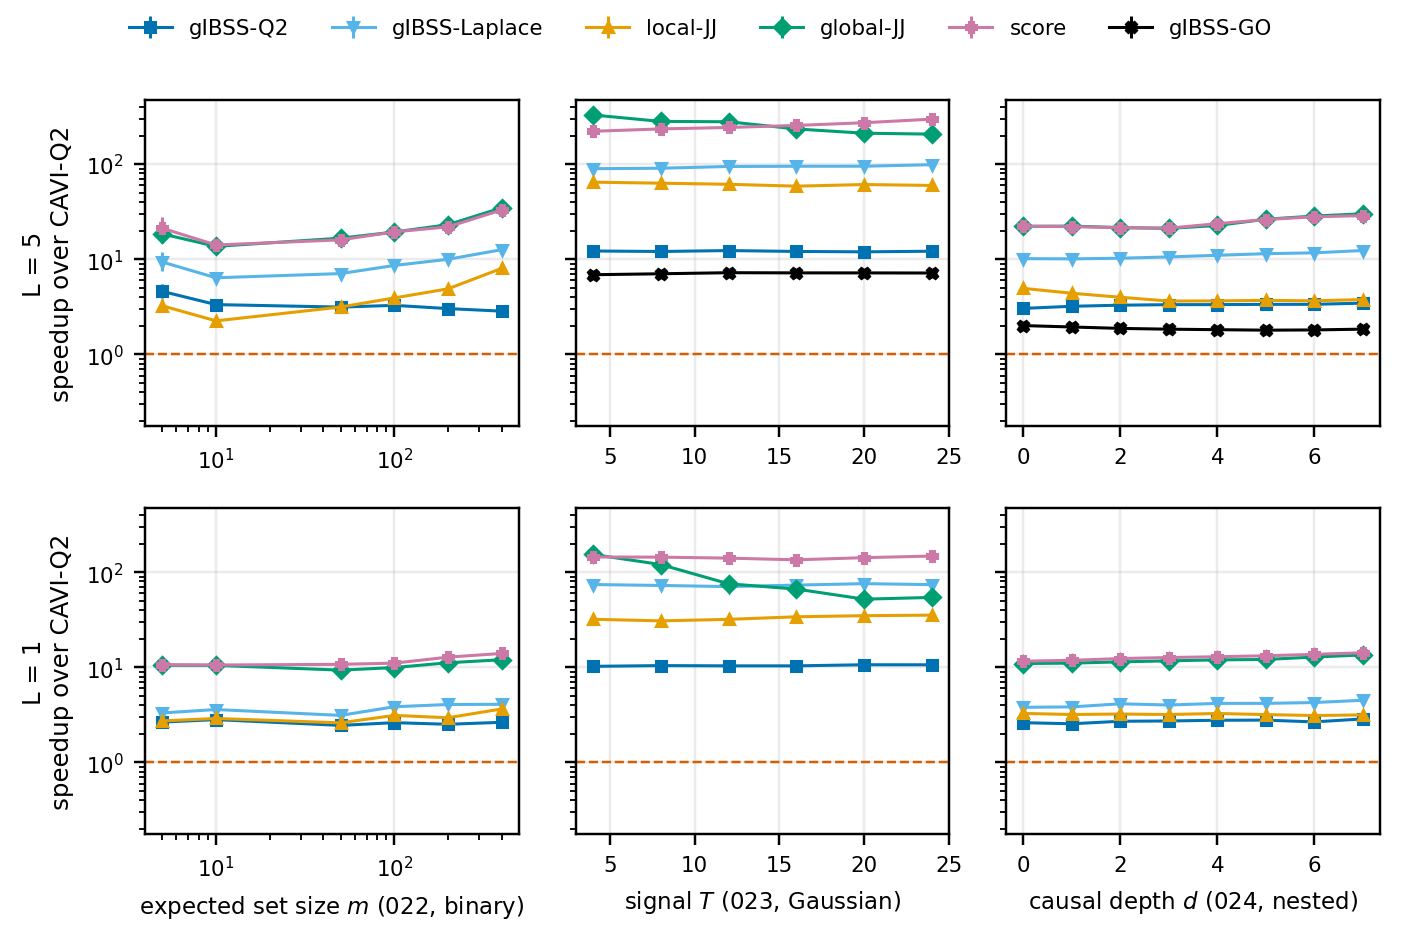
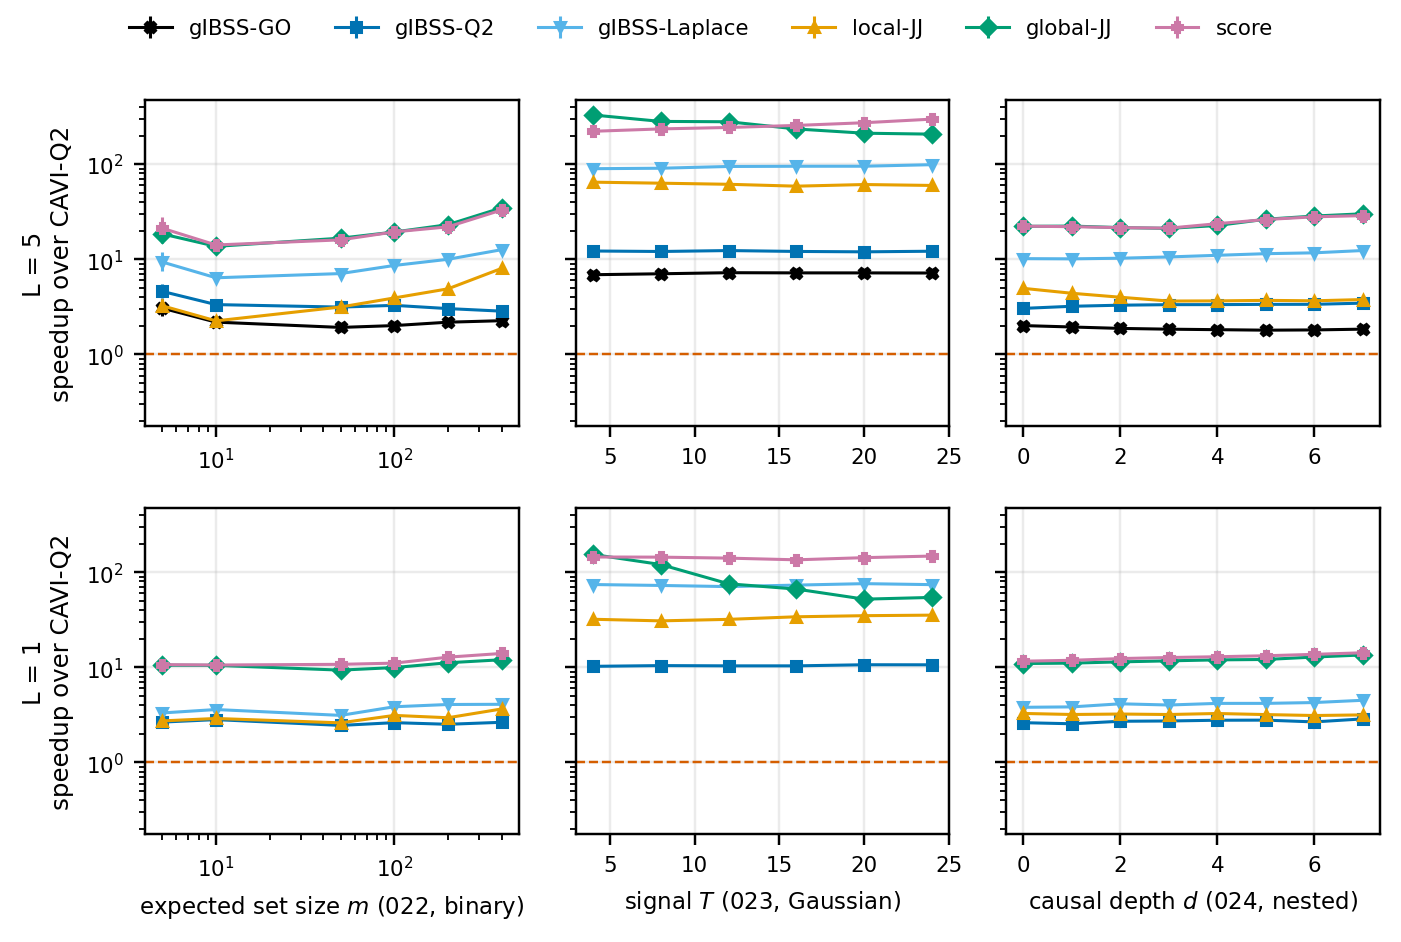
feat(twogroup): gIBSS-GO in the 022 runtime tables
runtime.load() reads 022 gIBSS-GO from the full grid in results/, restricted to the
022-laplace-timing batches (batch 0 of each cell, 30 batches x 10 reps), the same
replicates the other arms use. Every gIBSS-GO fit ran on Midway (gibss a3471c3), so these
timings come from the same machine as the -timing reruns. Fixes the ruff import lint in runtime.py.

diff --git a/twogroup_experiments/analysis/logistic_laplace_simulations/runtime.py b/twogroup_experiments/analysis/logistic_laplace_simulations/runtime.py
@@ -6,7 +6,8 @@ simulation, no ELBO scoring, no reduction. Three rules make the arms comparable:
 * ONE MACHINE. Every timing here comes from Midway caslake, one core per SLURM job (the profile
   sets no --cpus-per-task). The 022 full-grid fits ran on a laptop under parallel load, except
   local-JJ, so 022 reads the `-timing` supercollections (batch 0 rerun on Midway) from a mirror
-  directory instead of results/.
+  directory instead of results/. gIBSS-GO came later and all its fits ran on Midway (gibss
+  a3471c3), so its 022 timings are read from results/, restricted to the same batches.
 * STEADY STATE. Each fit job is a fresh process, so the first replicate of a batch also pays JAX
   compilation. Position 0 is dropped from the ratios and reported on its own (`compile_overhead`).
   Positions 1..9 are flat (no per-replicate recompile).
@@ -27,8 +28,9 @@ if _TG_ROOT not in sys.path:
     sys.path.insert(0, _TG_ROOT)
 if _HERE not in sys.path:
     sys.path.insert(0, _HERE)
-import experiments.loader as loader  # noqa: E402
-import laplacelib as R  # noqa: E402
+import laplacelib as R
+
+from experiments import loader
 
 RESULTS = os.path.join(_TG_ROOT, "results")
 # Midway copies of the 022 -timing fits (same hashes as the laptop-run fits in results/, which
@@ -43,6 +45,12 @@ SOURCES = [
     ("023", "gaussian", 1, "023-laplace-gaussian-ser", RESULTS),
     ("024", "nested", 5, "024-laplace-nested", RESULTS),
     ("024", "nested", 1, "024-laplace-nested-ser", RESULTS),
+]
+# Arms whose 022 timings come from the full grid in results/ rather than the -timing mirror:
+# (experiment, design, L, full-grid supercollection, method key, -timing supercollection whose
+# batches it is restricted to).
+SUPPLEMENTS = [
+    ("022", "binary", 5, "022-laplace", "smoothed", "022-laplace-timing"),
 ]
 ARMS = [m for m in R.METHODS if m != "cavi"]
 _PAIR = ["exp", "L", "batch_hash", "rep"]
@@ -67,20 +75,27 @@ def load(cache: str | None = None) -> pl.DataFrame:
     fit_seconds and IBSS sweep count. Missing fits are skipped (and counted in `n_missing`)."""
     if cache and os.path.exists(cache):
         return pl.read_parquet(cache)
+    jobs = [(exp, design, L, sc, path, bh, method, meta)
+            for exp, design, L, sc, root in SOURCES
+            for path, bh, method, meta in fit_paths(sc, root)]
+    for exp, design, L, sc, arm, timing_sc in SUPPLEMENTS:
+        keep = {bh for _, bh, _, _ in fit_paths(timing_sc, MIRROR)}
+        jobs += [(exp, design, L, sc, path, bh, method, meta)
+                 for path, bh, method, meta in fit_paths(sc, RESULTS)
+                 if method == arm and bh in keep]
     rows, missing = [], 0
-    for exp, design, L, sc, root in SOURCES:
-        for path, bh, method, meta in fit_paths(sc, root):
-            if not os.path.exists(path):
-                missing += 1
-                continue
-            d = pl.read_parquet(path, columns=["replicate", "fit_seconds", "fit_summary"])
-            for pos, r in enumerate(d.iter_rows(named=True)):
-                rows.append({"exp": exp, "design": design, "L": L, "sc": sc, "method": method,
-                             "m": meta["m"], "T": meta["T"], "depth": meta["depth"],
-                             "gap": meta["gap"], "null": meta["null"], "batch_hash": bh,
-                             "rep": int(r["replicate"]), "pos": pos,
-                             "secs": float(r["fit_seconds"]),
-                             "n_iter": int(r["fit_summary"]["n_iter"])})
+    for exp, design, L, sc, path, bh, method, meta in jobs:
+        if not os.path.exists(path):
+            missing += 1
+            continue
+        d = pl.read_parquet(path, columns=["replicate", "fit_seconds", "fit_summary"])
+        for pos, r in enumerate(d.iter_rows(named=True)):
+            rows.append({"exp": exp, "design": design, "L": L, "sc": sc, "method": method,
+                         "m": meta["m"], "T": meta["T"], "depth": meta["depth"],
+                         "gap": meta["gap"], "null": meta["null"], "batch_hash": bh,
+                         "rep": int(r["replicate"]), "pos": pos,
+                         "secs": float(r["fit_seconds"]),
+                         "n_iter": int(r["fit_summary"]["n_iter"])})
     df = pl.DataFrame(rows, infer_schema_length=None)
     if missing:
         print(f"runtime.load: {missing} fits missing", file=sys.stderr)
